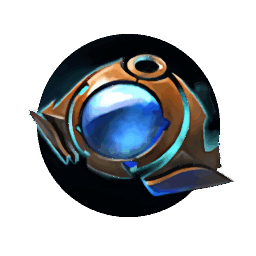
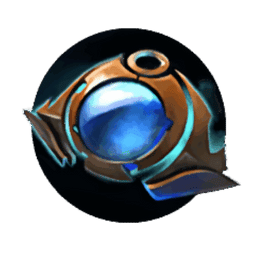
add: 'Witch Blade' and 'Parasma' items & scaled up smaller item images & minor changes-fixes

Changed region(s): [[0.0938, 0.0938, 0.9375, 0.875]]

diff --git a/lib/enums/items.dart b/lib/enums/items.dart
@@ -235,6 +235,7 @@ enum Items {
   Eye_of_skadi(
     bonuses: ItemBonuses(
       mana: 1600,
+      //damage: 40,
     ),
     activeProps: ItemActiveProps(),
     cost: 5200,
@@ -258,6 +259,44 @@ enum Items {
     cost: 6800,
     hasSound: true,
     requiredItems: [Items.Orchid],
+  ),
+
+  Witch_blade(
+    bonuses: ItemBonuses(
+      damage: 24,
+      mana: 160,
+      manaRegen: 1.2,
+    ),
+    activeProps: ItemActiveProps(
+      cooldown: 16,
+      duration: 4,
+      manaCost: 0,
+      activeBonuses: ItemActiveBonuses(
+        magicalDamage: 40,
+      ),
+    ),
+    cost: 2775,
+    //hasSound: true,
+  ),
+  
+  Parasma(
+    bonuses: ItemBonuses(
+      damage: 40,
+      mana: 480,
+      manaRegen: 1.6,
+    ),
+    activeProps: ItemActiveProps(
+      cooldown: 12,
+      duration: 4,
+      manaCost: 0,
+      activeBonuses: ItemActiveBonuses(
+        spellAmp: 0.20,
+        magicalDamage: 64,
+      ),
+    ),
+    cost: 5975,
+    //hasSound: true,
+    requiredItems: [Items.Witch_blade],
   ),
   
   Dagon1(
@@ -502,6 +541,8 @@ class _ItemTranslations {
     Items.Daedalus: LocaleKeys.Item_Daedalus_bonus,
     Items.Eye_of_skadi: LocaleKeys.Item_Eye_of_skadi_bonus,
     Items.Bloodthorn: LocaleKeys.Item_Bloodthorn_bonus,
+    Items.Witch_blade: LocaleKeys.Item_Witch_blade_bonus,
+    Items.Parasma: LocaleKeys.Item_Parasma_bonus,
     Items.Dagon: LocaleKeys.Item_Dagon_bonus,
     Items.Dagon1: LocaleKeys.Item_Dagon1_bonus,
     Items.Dagon2: LocaleKeys.Item_Dagon2_bonus,
@@ -533,6 +574,8 @@ class _ItemTranslations {
     Items.Daedalus: LocaleKeys.Item_Daedalus_active,
     Items.Eye_of_skadi: LocaleKeys.Item_Eye_of_skadi_active,
     Items.Bloodthorn: LocaleKeys.Item_Bloodthorn_active,
+    Items.Witch_blade: LocaleKeys.Item_Witch_blade_active,
+    Items.Parasma: LocaleKeys.Item_Parasma_active,
     Items.Dagon: LocaleKeys.Item_Dagon_active,
     Items.Dagon1: LocaleKeys.Item_Dagon1_active,
     Items.Dagon2: LocaleKeys.Item_Dagon2_active,

diff --git a/lib/providers/boss_battle_provider.dart b/lib/providers/boss_battle_provider.dart
@@ -215,9 +215,9 @@ class BossBattleProvider extends ChangeNotifier {
     spellAmp += itemBonus.spellAmp * multiplier;
   }
 
-  void applyCooldownForSimilarItems() {
+  void applyCooldownForSimilarItems(List<Items> group) {
     for (final item in inventory) {
-      if (item.item == Items.Orchid || item.item == Items.Bloodthorn) {
+      if (group.contains(item.item)) {
         item.startCooldown();
       }
     }
@@ -251,12 +251,15 @@ class BossBattleProvider extends ChangeNotifier {
         return;
       } else if (item.item == Items.Bloodthorn) {
         _useBloodThorn();
-        applyCooldownForSimilarItems();
+        applyCooldownForSimilarItems([Items.Bloodthorn, Items.Orchid]);
       }
       else if (item.item == Items.Orchid) {
         _useOrchid();
-        applyCooldownForSimilarItems();
+        applyCooldownForSimilarItems([Items.Bloodthorn, Items.Orchid]);
         return;
+      }
+      else if (item.item == Items.Witch_blade || item.item == Items.Parasma) {
+        applyCooldownForSimilarItems([Items.Witch_blade, Items.Parasma]);
       }
       _modifyBonuses(item, true);
       await Future.delayed(

diff --git a/lib/constants/locale_keys.g.dart b/lib/constants/locale_keys.g.dart
@@ -245,6 +245,12 @@ abstract class  LocaleKeys {
   static const Item_Bloodthorn_bonus = 'Item.Bloodthorn.bonus';
   static const Item_Bloodthorn_active = 'Item.Bloodthorn.active';
   static const Item_Bloodthorn = 'Item.Bloodthorn';
+  static const Item_Witch_blade_bonus = 'Item.Witch_blade.bonus';
+  static const Item_Witch_blade_active = 'Item.Witch_blade.active';
+  static const Item_Witch_blade = 'Item.Witch_blade';
+  static const Item_Parasma_bonus = 'Item.Parasma.bonus';
+  static const Item_Parasma_active = 'Item.Parasma.active';
+  static const Item_Parasma = 'Item.Parasma';
   static const Item_Dagon_bonus = 'Item.Dagon.bonus';
   static const Item_Dagon_active = 'Item.Dagon.active';
   static const Item_Dagon = 'Item.Dagon';

diff --git a/lib/screens/dashboard/boss_mode/widgets/item_description_widget.dart b/lib/screens/dashboard/boss_mode/widgets/item_description_widget.dart
@@ -53,6 +53,10 @@ class _ItemDescriptionWidgetState extends State<ItemDescriptionWidget> {
       'from' : Items.Orchid,
       'to' : Items.Bloodthorn,
     },
+    {
+      'from' : Items.Witch_blade,
+      'to' : Items.Parasma,
+    },
   ];
   Map<String, Items>? getUpgradableItem() {
     for (final upgradableItem in _upgradableItems) {
@@ -197,7 +201,7 @@ class _ItemDescriptionWidgetState extends State<ItemDescriptionWidget> {
           ],
         ),
         const Spacer(),
-        if (upgradableItem != null)
+        if (upgradableItem != null && !widget.isItemSellable)
           Row(
             children: [
               const Icon(Icons.keyboard_double_arrow_right_outlined),
